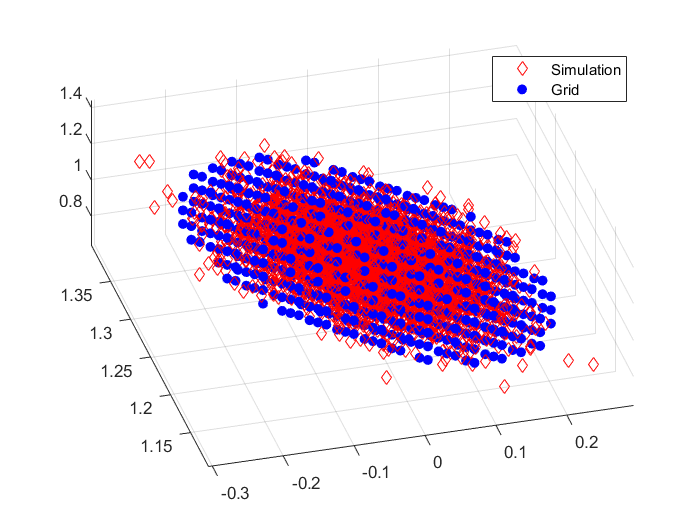
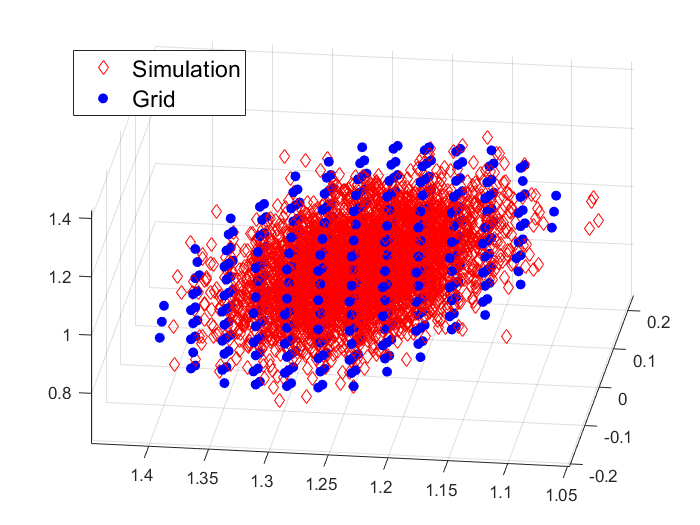
Intel Makefile

diff --git a/main.cpp b/main.cpp
@@ -44,7 +44,7 @@ int main()
 
     cout << "Start discretize..." << endl;
 
-    uvec gridSizes = { 15, 11, 9 };
+    uvec gridSizes = { 11, 9, 7 };
     DiscreteVAR myMCvar(myVarN, gridSizes, true, DiscreteVAR::Method::Cholesky);
     // myMCvar.print();
     myMCvar.save("myMCvar.h5");
